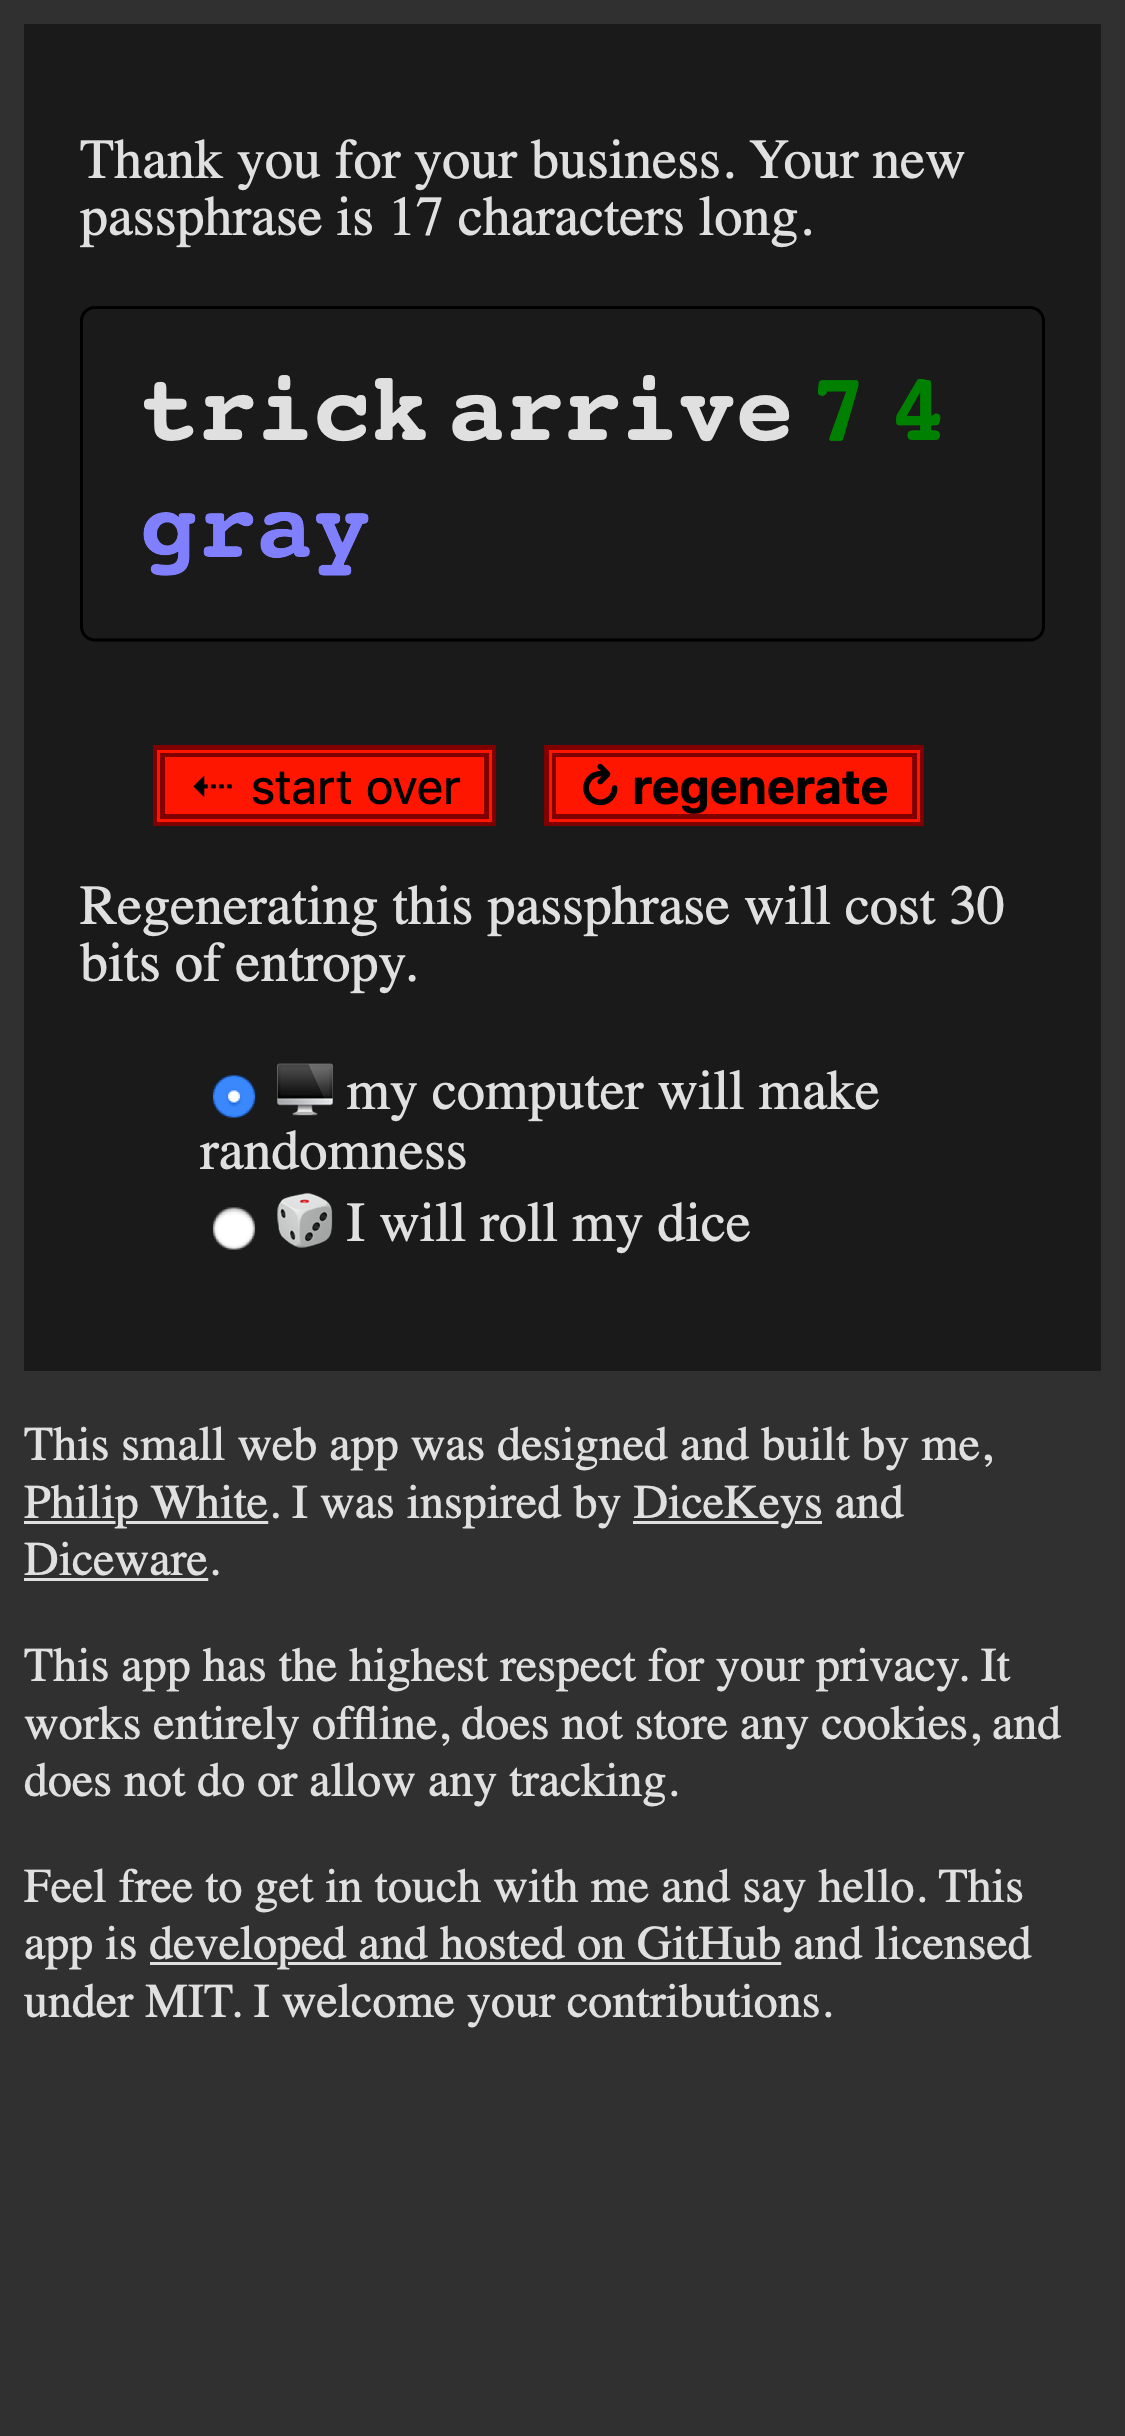
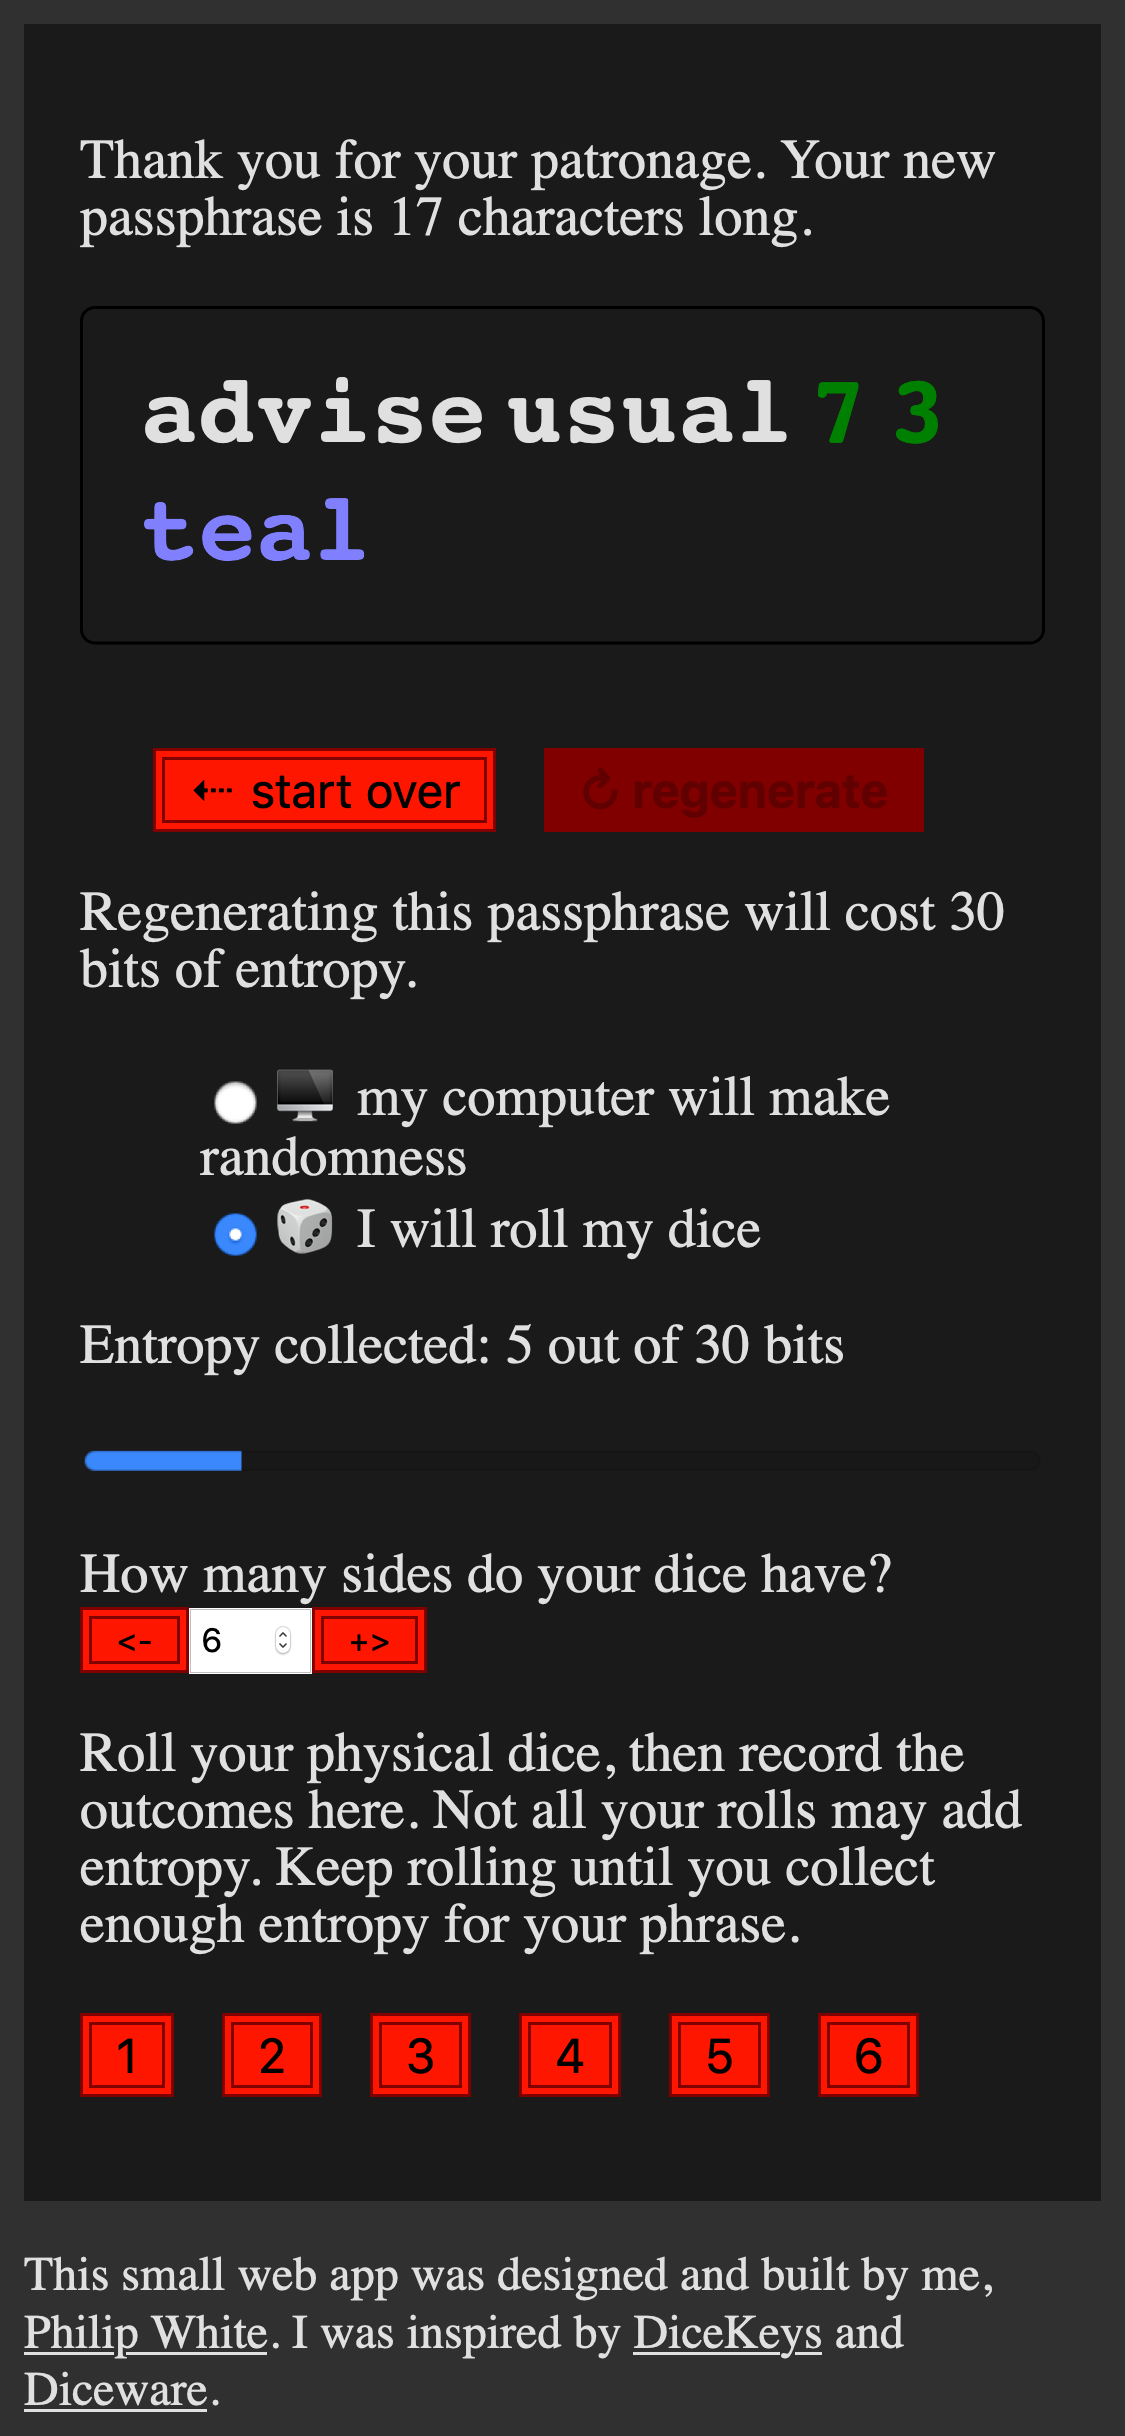
Replace "business" with "patronage"; improve screenshot

diff --git a/docs/app.bundle.js b/docs/app.bundle.js
@@ -177,7 +177,7 @@ eval("\nvar __createBinding = (this && this.__createBinding) || (Object.create ?
 /***/ (function(module, exports, __webpack_require__) {
 
 "use strict";
-eval("\nvar __createBinding = (this && this.__createBinding) || (Object.create ? (function(o, m, k, k2) {\n    if (k2 === undefined) k2 = k;\n    Object.defineProperty(o, k2, { enumerable: true, get: function() { return m[k]; } });\n}) : (function(o, m, k, k2) {\n    if (k2 === undefined) k2 = k;\n    o[k2] = m[k];\n}));\nvar __setModuleDefault = (this && this.__setModuleDefault) || (Object.create ? (function(o, v) {\n    Object.defineProperty(o, \"default\", { enumerable: true, value: v });\n}) : function(o, v) {\n    o[\"default\"] = v;\n});\nvar __importStar = (this && this.__importStar) || function (mod) {\n    if (mod && mod.__esModule) return mod;\n    var result = {};\n    if (mod != null) for (var k in mod) if (k !== \"default\" && Object.prototype.hasOwnProperty.call(mod, k)) __createBinding(result, mod, k);\n    __setModuleDefault(result, mod);\n    return result;\n};\nObject.defineProperty(exports, \"__esModule\", { value: true });\nexports.Phrase = void 0;\nconst React = __importStar(__webpack_require__(/*! react */ \"react\"));\nconst pp = __importStar(__webpack_require__(/*! ./PhrasePart */ \"./src/PhrasePart.tsx\"));\nconst wb = __importStar(__webpack_require__(/*! ./wordbanks */ \"./src/wordbanks.ts\"));\nclass Phrase extends React.PureComponent {\n    render() {\n        if (this.props.parts.length === 0) {\n            return React.createElement(\"div\", { id: \"welcome\" },\n                React.createElement(\"h1\", null, \"welcome to phrase shop\"),\n                React.createElement(\"p\", null, \"Build your memorable and secure passphrase!\"));\n        }\n        const len = this.props.parts.reduce((acc, pprops) => ({\n            max: acc.max + (pprops.plaintext === undefined\n                ? wb.partTypeProps[pprops.type].maxLength\n                : pprops.plaintext.length),\n            min: acc.min + (pprops.plaintext === undefined\n                ? wb.partTypeProps[pprops.type].minLength\n                : pprops.plaintext.length),\n        }), { max: 0, min: 0 });\n        const lengthText = len.min === len.max ? `${len.min}` : `${len.min}-${len.max}`;\n        return React.createElement(\"div\", null,\n            React.createElement(\"p\", { id: \"stats\" }, this.props.isGenerated\n                ? `Thank you for your business. Your new passphrase is ${lengthText} characters long.`\n                : `This passphrase will be ${lengthText} characters long.`),\n            React.createElement(\"div\", { id: \"phrase\" }, this.props.parts.map((part) => React.createElement(\"span\", { key: part.key },\n                React.createElement(pp.PhrasePart, Object.assign({}, part))))));\n    }\n}\nexports.Phrase = Phrase;\n\n\n//# sourceURL=webpack:///./src/Phrase.tsx?");
+eval("\nvar __createBinding = (this && this.__createBinding) || (Object.create ? (function(o, m, k, k2) {\n    if (k2 === undefined) k2 = k;\n    Object.defineProperty(o, k2, { enumerable: true, get: function() { return m[k]; } });\n}) : (function(o, m, k, k2) {\n    if (k2 === undefined) k2 = k;\n    o[k2] = m[k];\n}));\nvar __setModuleDefault = (this && this.__setModuleDefault) || (Object.create ? (function(o, v) {\n    Object.defineProperty(o, \"default\", { enumerable: true, value: v });\n}) : function(o, v) {\n    o[\"default\"] = v;\n});\nvar __importStar = (this && this.__importStar) || function (mod) {\n    if (mod && mod.__esModule) return mod;\n    var result = {};\n    if (mod != null) for (var k in mod) if (k !== \"default\" && Object.prototype.hasOwnProperty.call(mod, k)) __createBinding(result, mod, k);\n    __setModuleDefault(result, mod);\n    return result;\n};\nObject.defineProperty(exports, \"__esModule\", { value: true });\nexports.Phrase = void 0;\nconst React = __importStar(__webpack_require__(/*! react */ \"react\"));\nconst pp = __importStar(__webpack_require__(/*! ./PhrasePart */ \"./src/PhrasePart.tsx\"));\nconst wb = __importStar(__webpack_require__(/*! ./wordbanks */ \"./src/wordbanks.ts\"));\nclass Phrase extends React.PureComponent {\n    render() {\n        if (this.props.parts.length === 0) {\n            return React.createElement(\"div\", { id: \"welcome\" },\n                React.createElement(\"h1\", null, \"welcome to phrase shop\"),\n                React.createElement(\"p\", null, \"Build your memorable and secure passphrase!\"));\n        }\n        const len = this.props.parts.reduce((acc, pprops) => ({\n            max: acc.max + (pprops.plaintext === undefined\n                ? wb.partTypeProps[pprops.type].maxLength\n                : pprops.plaintext.length),\n            min: acc.min + (pprops.plaintext === undefined\n                ? wb.partTypeProps[pprops.type].minLength\n                : pprops.plaintext.length),\n        }), { max: 0, min: 0 });\n        const lengthText = len.min === len.max ? `${len.min}` : `${len.min}-${len.max}`;\n        return React.createElement(\"div\", null,\n            React.createElement(\"p\", { id: \"stats\" }, this.props.isGenerated\n                ? `Thank you for your patronage. Your new passphrase is ${lengthText} characters long.`\n                : `This passphrase will be ${lengthText} characters long.`),\n            React.createElement(\"div\", { id: \"phrase\" }, this.props.parts.map((part) => React.createElement(\"span\", { key: part.key },\n                React.createElement(pp.PhrasePart, Object.assign({}, part))))));\n    }\n}\nexports.Phrase = Phrase;\n\n\n//# sourceURL=webpack:///./src/Phrase.tsx?");
 
 /***/ }),
 

diff --git a/src/Phrase.tsx b/src/Phrase.tsx
@@ -37,7 +37,7 @@ export class Phrase extends React.PureComponent<IProps> {
       <p id="stats">
         {
           this.props.isGenerated
-            ? `Thank you for your business. Your new passphrase is ${lengthText} characters long.`
+            ? `Thank you for your patronage. Your new passphrase is ${lengthText} characters long.`
             : `This passphrase will be ${lengthText} characters long.`
         }
       </p>

diff --git a/src/Phrase.test.tsx b/src/Phrase.test.tsx
@@ -73,7 +73,7 @@ describe("Phrase", () => {
         .find("#stats")
         .render()
         .text())
-        .toEqual("Thank you for your business. Your new passphrase is 6 characters long.");
+        .toEqual("Thank you for your patronage. Your new passphrase is 6 characters long.");
     });
 
     it("renders phrase parts", () => {
